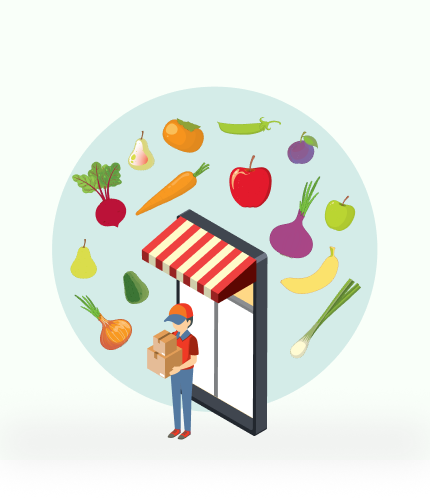
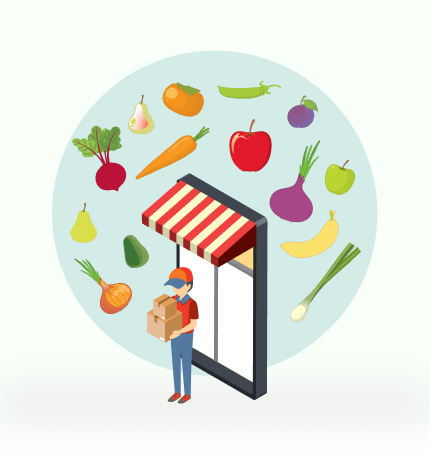
added login page

Changed region(s): [[0.1209, 0.0905, 0.8767, 0.875]]

diff --git a/src/components/ModalLogin/LoginModal.js b/src/components/ModalLogin/LoginModal.js
@@ -274,7 +274,7 @@ const AuthModal = (props) => {
                         />
                       </Box>
                       {isSubmitMobOrEmail && (
-                        <div style={{display:'flex',justifyContent:'left'}}>
+                        <div style={{display:'flex',justifyContent:'left', marginLeft:'62px'}}>
                         <FormHelperText error>
                           {errorData?.emailOrNumber?.message}
                         </FormHelperText>
@@ -561,7 +561,9 @@ const AuthModal = (props) => {
             {/* Render images only if formType is not 'otp' */}
             {formType !== "otp" ? (
               <>
-                <img src={loginimage} alt="logo" />
+                <img
+                 style={{height:'370px',width:'100%'}} 
+                src={loginimage} alt="logo" />
 
                 <div style={{ textAlign: "center" }}>
                   <img
